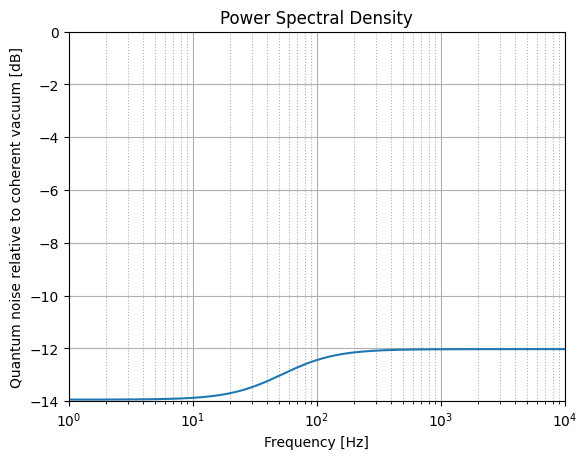
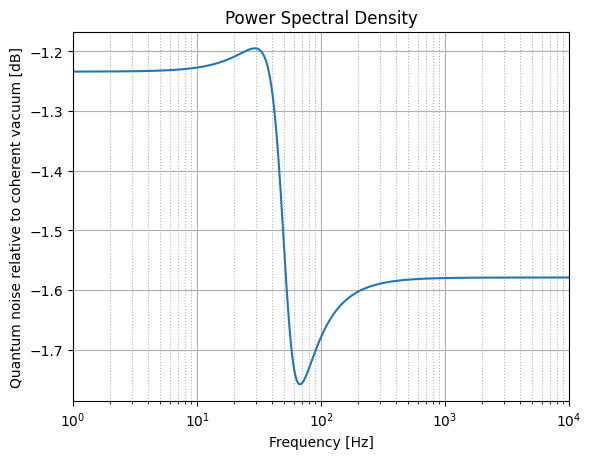
Update readme

diff --git a/test/test_transfer_matrices.py b/test/test_transfer_matrices.py
@@ -5,7 +5,7 @@ from gwinc.transfer_matrices import build_transfer_matrix
 
 def test_squeezer():
     s = Squeezer(
-        squeezing_factor = 10,
+        squeezing_factor = 1.05,
         squeezing_angle = 0,
         phase_error = 30,
         squared_injection_loss = 0.32
@@ -38,7 +38,7 @@ def test_readout():
 def test_build_transfer_matrix():
     t = build_transfer_matrix([
         Squeezer(
-            squeezing_factor = 10,
+            squeezing_factor = 1.05,
             squeezing_angle = 0,
             phase_error = 30,
             squared_injection_loss = 0.32

diff --git a/test/test_noise.py b/test/test_noise.py
@@ -8,7 +8,7 @@ from gwinc.transfer_matrices import build_transfer_matrix
 def test_build_noise():
     t = build_transfer_matrix([
         Squeezer(
-            squeezing_factor = 10,
+            squeezing_factor = 1.05,
             squeezing_angle = 0,
             phase_error = 30,
             squared_injection_loss = 0.32

diff --git a/README.md b/README.md
@@ -43,23 +43,24 @@ This project is implemented to simulate the power spectral density of quantum no
 ```python
 transfer_matrix = build_transfer_matrix([
     Squeezer(
-        squeezing_factor = 10,
+        squeezing_factor = r,
         squeezing_angle = 0,
-        squared_injection_loss = 0.32
+        phase_error = 30e-3,
+        squared_injection_loss = 0.05
     ),
     FilterCavity(
-        squared_input_mirror_transmission = 0.00136,
-        squared_round_trip_loss = 120e-6,
-        filter_cavity_length = 300,
+        squared_input_mirror_transmission = 66.3e-6,
+        squared_round_trip_loss = 16e-6,
+        filter_cavity_length = 55,
         carrier_wavelength = 1064,
-        detuning = 0.1,
-        filter_cavity_length_error = 0,
+        detuning = 48,
+        filter_cavity_length_error = 0.3e-12,
         sum_of_all_squeezed_filter_cavity_higher_order_mode_coupling_coefficients = 0.06,
         sum_of_all_squeezed_local_oscillator_higher_order_mode_coupling_coefficients = 0.02,
         mode_mismatch_phase_ambiguity = 2*np.pi
     ),
     Readout(
-        squared_readout_loss = 0.06
+        squared_readout_loss = 0.05
     )
 ])
 
